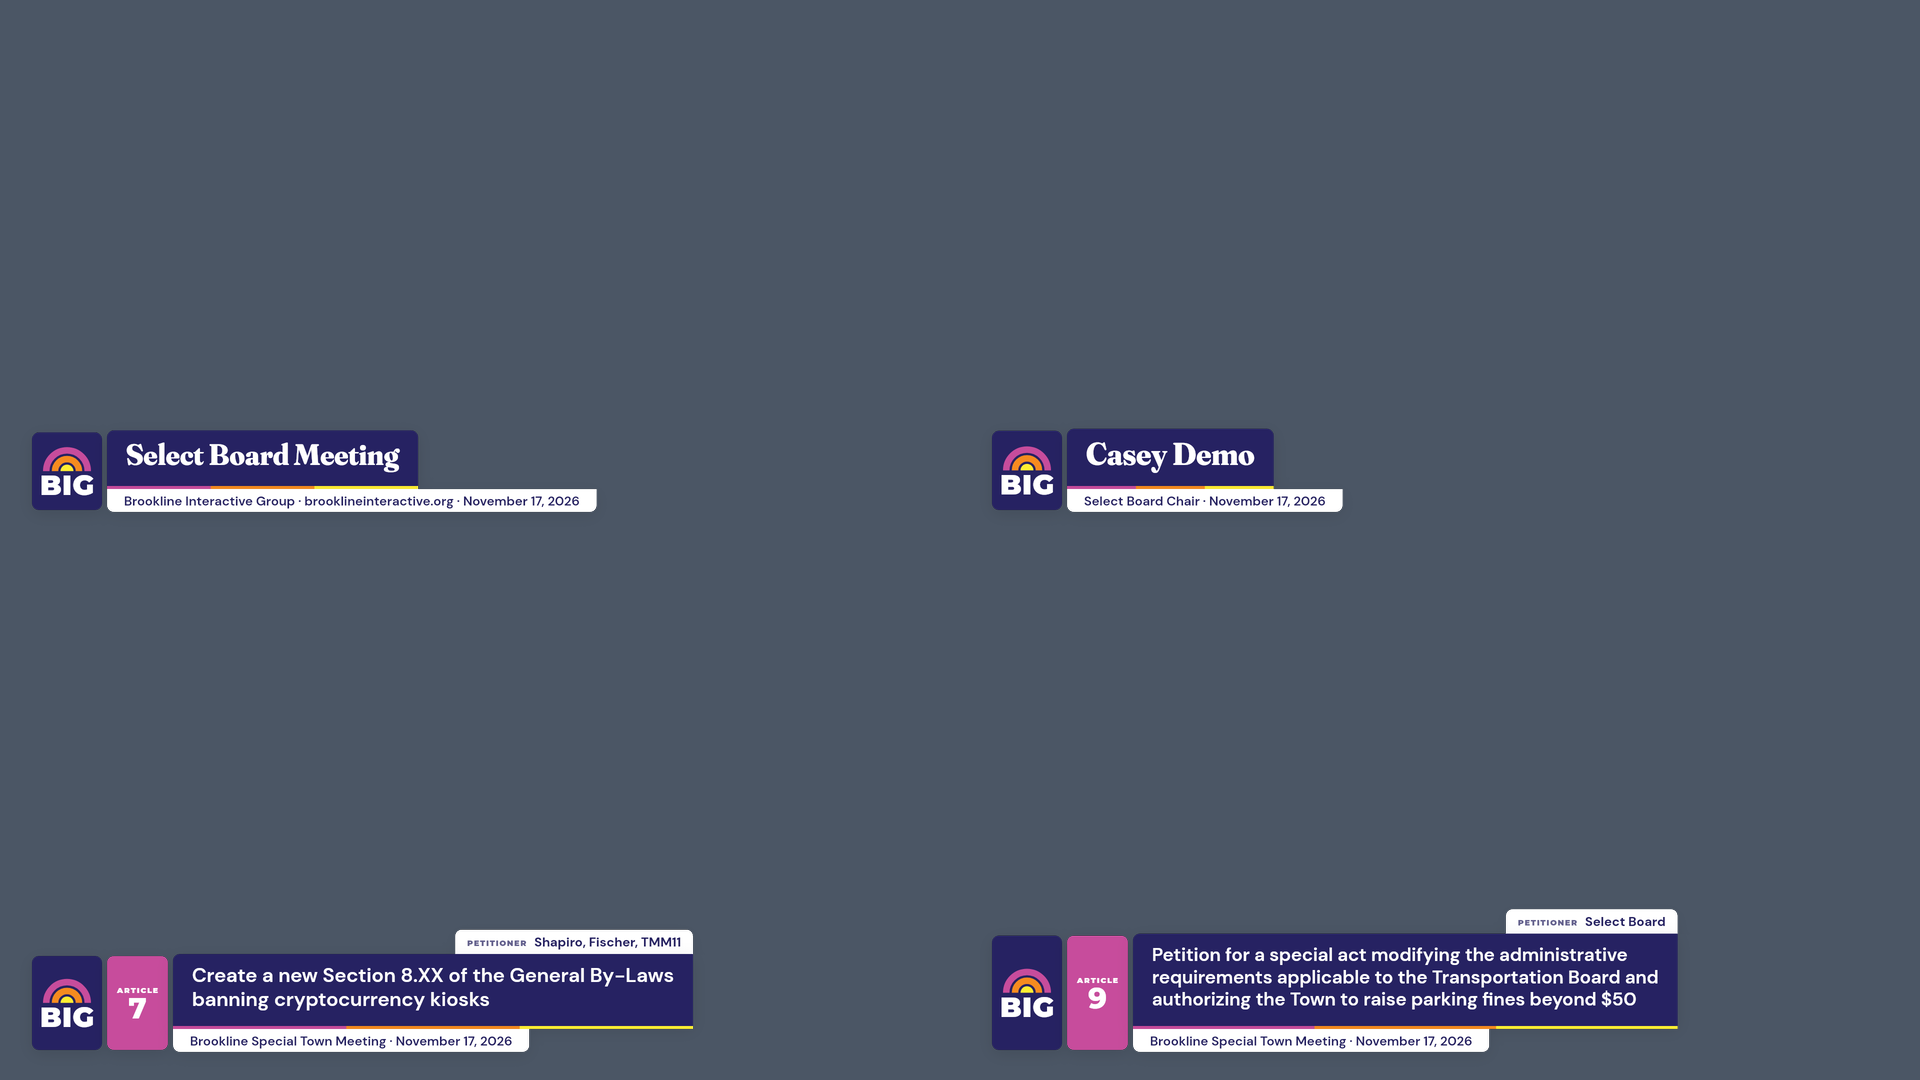
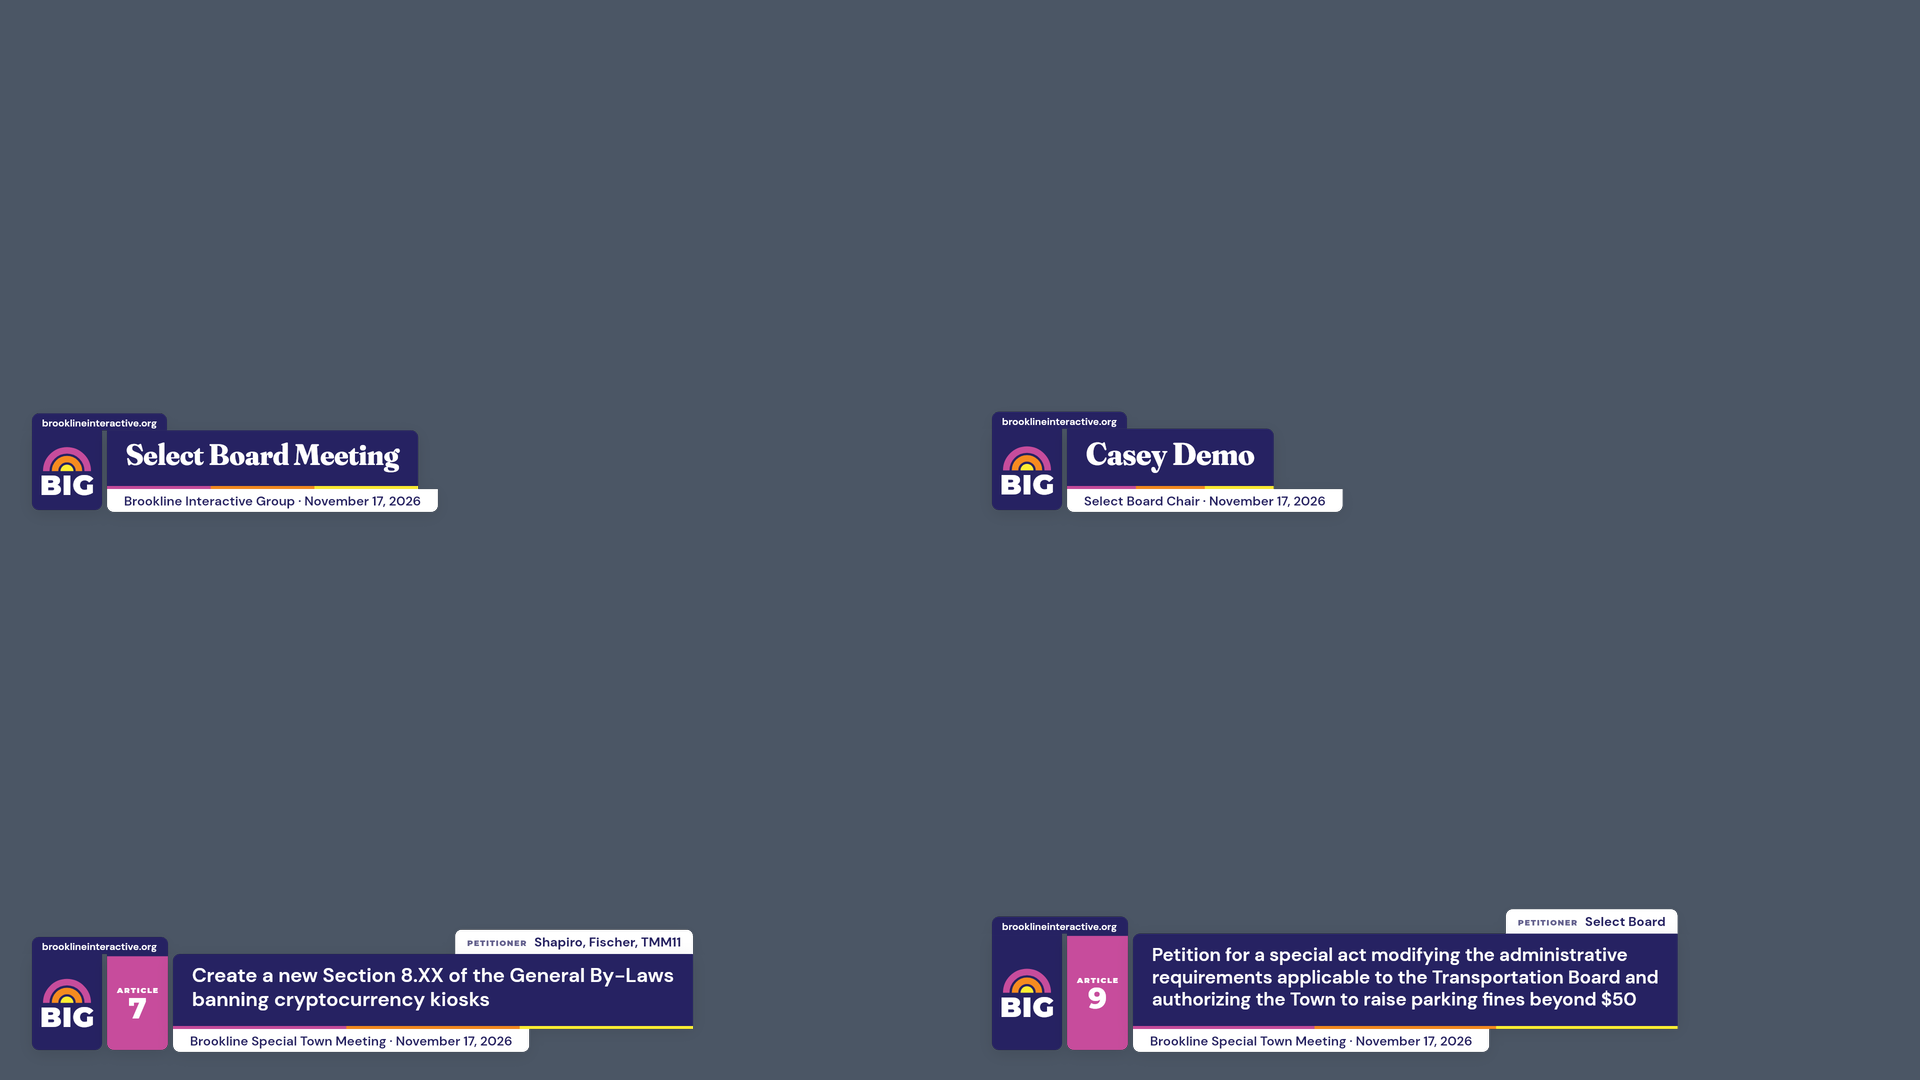
The station website rides on a tab at the top-left of every title
Every lower third now carries identity.url on a tab flush with the title's
left edge, in the tile's colour (the bar's when a look has no tile). It rises
out of the tile and badge after the bar extends and sinks back on the way out;
the corners under it straighten as it rises. On articles it runs to the badge's
right edge, and the bar widens so it never meets the petitioner tab.

A new look flag, urlTab (default on, Look step > Station identity), turns it
off; then the website goes back on the show ID's second line. A tag line that
repeats the website drops it while the tab is on.

Also: measure.mjs reports the tab, README and example images updated.

diff --git a/src/renderer/core.js b/src/renderer/core.js
@@ -8,10 +8,14 @@
 //
 // Design language ("tile build"): a rounded station tile carrying the mark,
 // an optional badge tile (article number), then a stack of bars — the name bar,
-// a thin brand stripe, and a light sub bar. The build-in animation assembles
-// the title piece by piece: the tile pops in, the arches draw on, the name bar
-// extends out of the tile, the name wipes in, the stripe draws, the sub bar
-// wipes out underneath and its text settles. The out reverses the build.
+// a thin brand stripe, and a light sub bar. Two tabs can rise out of the top
+// edge: the station's website at the left (in the tile's colour, so it reads
+// as a piece of the tile jutting up) and an article's petitioner at the
+// right (in the sub bar's colours). The build-in animation assembles the
+// title piece by piece: the tile pops in, the arches draw on, the name bar
+// extends out of the tile, the website tab rises, the name wipes in, the
+// stripe draws, the sub bar wipes out underneath and its text settles. The
+// out reverses the build.
 
 /** @typedef {{id?:string,type:'show'|'speaker'|'article',badge:string,primary:string,secondary:string,size?:'auto'|'standard'|'large',textScale?:number}} TitleItem */
 
@@ -234,7 +238,11 @@ function computeLayout(ctx, item, theme, opts) {
   const showTile = markStyle !== 'none' && (type === 'show' || FL.markOnAll !== false);
 
   /** @type {any} */
-  const plan = { u, W, H, r, type, large: false, tile: null, badge: null, bar: null, stripe: null, sub: null, tab: null };
+  const plan = { u, W, H, r, type, large: false, tile: null, badge: null, bar: null, stripe: null, sub: null, tab: null, url: null };
+
+  // The station's website, shown as a tab at the top-left of every title.
+  // When the tab is off, show IDs still carry it on their second line.
+  const urlText = FL.urlTab !== false ? String(id.url ?? '').replace(/\s+/g, ' ').trim() : '';
 
   // --- badge (article number) -------------------------------------------
   let badge = null;
@@ -319,7 +327,13 @@ function computeLayout(ctx, item, theme, opts) {
   // --- sub bar -----------------------------------------------------------
   let subText = String(item.secondary ?? '').trim();
   if (type === 'show' && !subText) {
-    subText = `${id.org ?? ''}${id.url ? ' · ' + id.url : ''}`.trim();
+    subText = `${id.org ?? ''}${id.url && !urlText ? ' · ' + id.url : ''}`.trim();
+  }
+  if (urlText && subText) {
+    // the website is on its own tab, so a tag line that repeats it drops it
+    const parts = subText.split(/\s+[\u00b7\u2022|]\s+/);
+    const keep = parts.filter((p) => p.trim().toLowerCase() !== urlText.toLowerCase());
+    if (keep.length < parts.length) subText = keep.join(' \u00b7 ');
   }
   // The project date (opts.dateText, on when opts.datePlace isn't 'off')
   // continues the line after a dot — "Brookline Special Town Meeting ·
@@ -404,6 +418,40 @@ function computeLayout(ctx, item, theme, opts) {
     tab = { text, kick: kickText, kickTracking, kickGap, padX: TAB_PAD, size: m.size, kickSize: m.kickSize, kickW: m.kickW, nameW: m.nameW, w: m.w, h: Math.round(m.size * 1.9) };
   }
 
+  // --- website tab -------------------------------------------------------
+  // A small line of lowercase type on a tab flush with the left edge of the
+  // title, jutting out of the top of whatever is leftmost (the tile, else
+  // the badge or the name bar). It may run past the tile but never past the
+  // title itself.
+  let url = null;
+  if (urlText) {
+    const URL_PAD = 20 * u;
+    const maxW = (barsX - tileX) + Math.max(barW, sub ? sub.w : 0, tab ? tab.w : 0);
+    const measureUrl = (size, text) => {
+      setFont(ctx, F.textWeight ?? 600, size, F.text);
+      const textW = measure(ctx, text);
+      return { size, textW, w: URL_PAD * 2 + textW };
+    };
+    let text = urlText;
+    let m = measureUrl(20 * u * kSub, text);
+    if (m.w > maxW) m = measureUrl(Math.max(13 * u, m.size * (maxW / m.w)), text);
+    if (m.w > maxW) { // still too wide at the floor: shorten it
+      const budget = maxW - URL_PAD * 2;
+      setFont(ctx, F.textWeight ?? 600, m.size, F.text);
+      while (text.length > 4 && measure(ctx, text + '\u2026') > budget) text = text.slice(0, -1).trimEnd();
+      text += '\u2026';
+      m = { size: m.size, textW: measure(ctx, text), w: maxW };
+    }
+    // A tab that would end over the badge runs to the badge's right edge
+    // instead, so the silhouette stays simple: a lid over the tile and badge.
+    if (badge) {
+      const end = tileX + m.w;
+      const badgeRight = badgeX + badge.w;
+      if (end > (showTile ? tileX + TILE : tileX) && end < badgeRight) m.w = badgeRight - tileX;
+    }
+    url = { text, padX: URL_PAD, size: m.size, w: m.w, h: Math.round(m.size * 1.9) };
+  }
+
   // --- vertical stack ----------------------------------------------------
   const stripeOn = FL.stripe !== false && (C.stripes?.length ?? 0) > 0;
   const stripeH = stripeOn ? STRIPE_H : 0;
@@ -414,8 +462,14 @@ function computeLayout(ctx, item, theme, opts) {
   const stackY = bottom - groupH + (groupH - stackH) / 2;
   const tileY = bottom - groupH + (groupH - tileH) / 2;
 
+  // --- bar width -----------------------------------------------------------
+  // The bar grows to carry the petitioner tab, and when the website tab is
+  // there too, far enough that the two share the top edge without touching.
+  let barWFinal = Math.max(barW, tab ? tab.w : 0);
+  if (tab && url) barWFinal = Math.max(barWFinal, Math.min(availW, (tileX + url.w + 12 * u) - barsX + tab.w));
+
   // --- horizontal centering (optional) ----------------------------------
-  const rightEdge = barsX + Math.max(barW, sub ? sub.w : 0, tab ? tab.w : 0);
+  const rightEdge = Math.max(barsX + Math.max(barWFinal, sub ? sub.w : 0), tileX + (url ? url.w : 0));
   let shift = 0;
   if (L.position === 'center') shift = (W - (rightEdge - tileX)) / 2 - tileX;
 
@@ -457,13 +511,18 @@ function computeLayout(ctx, item, theme, opts) {
   if (badge) {
     plan.badge = { ...badge, x: badgeX + shift, y: tileY, h: tileH };
   }
-  const barWFinal = Math.max(barW, tab ? tab.w : 0);
   plan.bar = {
     x: barsX + shift, y: stackY, w: barWFinal, h: barH,
     padX: PAD_X, padY, lines, size, lineH, family, weight,
   };
   if (tab) {
     plan.tab = { ...tab, x: barsX + shift + barWFinal - tab.w, y: stackY - tab.h };
+  }
+  if (url) {
+    // `top` is the top of what it rises out of (the tile and badge sit a
+    // little below the bar's top edge, `line`)
+    const top = (showTile || badge) ? tileY : stackY;
+    plan.url = { ...url, x: tileX + shift, y: top - url.h, top, line: stackY, onTile: showTile };
   }
   if (stripeOn) {
     plan.stripe = { x: barsX + shift, y: stackY + barH, w: barWFinal, h: stripeH, colors: C.stripes };
@@ -512,11 +571,12 @@ function buildStages(inP, outP) {
     sub: S(0.64, 0.9, easeOutQuint, 0.08, 0.36, easeInCubic),
     subText: S(0.8, 1.0, easeOutCubic, 0.0, 0.18, easeInQuad),
     tab: S(0.7, 0.96, easeOutQuint, 0.1, 0.4, easeInCubic),
+    url: S(0.46, 0.74, easeOutQuint, 0.2, 0.48, easeInCubic), // after the badge has settled from its pop
   };
 }
 
 const AT_REST = {
-  tile: 1, arcs: [1, 1, 1], label: 1, badge: 1, bar: 1, name: 1, stripe: [1, 1, 1, 1], sub: 1, subText: 1, tab: 1,
+  tile: 1, arcs: [1, 1, 1], label: 1, badge: 1, bar: 1, name: 1, stripe: [1, 1, 1, 1], sub: 1, subText: 1, tab: 1, url: 1,
 };
 
 // ------------------------------------------------------------------- paint ---
@@ -597,6 +657,13 @@ export function drawFrame(ctx, t, item, theme, opts) {
   const labelFont = F.label ?? F.text;
   const labelWeight = F.labelWeight ?? 700;
 
+  // The website tab sits on the top edge of the tile, badge and bar: the
+  // corners under it straighten as it rises (square once it is a corner's
+  // height out), and round again as it sinks back.
+  const urlRight = plan.url ? plan.url.x + plan.url.w : -Infinity;
+  const rUnder = plan.url ? r * (1 - Math.min(1, st.url * 3)) : r;
+  const underUrl = (x, w) => ({ tl: urlRight > x ? rUnder : r, tr: urlRight >= x + w ? rUnder : r });
+
   // --- station tile -------------------------------------------------------
   if (plan.tile && st.tile > 0) {
     const T = plan.tile;
@@ -607,7 +674,7 @@ export function drawFrame(ctx, t, item, theme, opts) {
     ctx.scale(Math.max(0.001, s), Math.max(0.001, s));
     ctx.translate(-cx, -cy);
     setShadow();
-    rrect(ctx, T.x, T.y, T.w, T.h, r);
+    rrectCorners(ctx, T.x, T.y, T.w, T.h, { ...underUrl(T.x, T.w), br: r, bl: r });
     ctx.fillStyle = C.tile;
     ctx.fill();
     clearShadow();
@@ -652,7 +719,7 @@ export function drawFrame(ctx, t, item, theme, opts) {
     ctx.scale(Math.max(0.001, s), Math.max(0.001, s));
     ctx.translate(-cx, -cy);
     setShadow();
-    rrect(ctx, B.x, B.y, B.w, B.h, r);
+    rrectCorners(ctx, B.x, B.y, B.w, B.h, { ...underUrl(B.x, B.w), br: r, bl: r });
     ctx.fillStyle = C.badgeBg;
     ctx.fill();
     clearShadow();
@@ -718,13 +785,43 @@ export function drawFrame(ctx, t, item, theme, opts) {
     ctx.save();
     setShadow();
     // bottom corners are square when a stripe or sub bar continues the stack;
-    // the top-right one is square under the petitioner tab
+    // the top ones under the petitioner tab (right) and the website tab (left)
     const squareBottom = !!(plan.stripe || plan.sub);
     const tr = plan.tab ? 0 : r;
-    rrectCorners(ctx, bar.x, bar.y, Math.max(1, barW), bar.h, { tl: r, tr, br: squareBottom ? 0 : r, bl: squareBottom ? 0 : r });
+    const tl = urlRight > bar.x ? rUnder : r;
+    rrectCorners(ctx, bar.x, bar.y, Math.max(1, barW), bar.h, { tl, tr, br: squareBottom ? 0 : r, bl: squareBottom ? 0 : r });
     ctx.fillStyle = C.bar;
     ctx.fill();
     clearShadow();
+    ctx.restore();
+  }
+
+  // --- website tab (rises out of the top-left) ----------------------------------
+  if (plan.url && st.url > 0) {
+    const U = plan.url;
+    const y = U.top - U.h * st.url;
+    ctx.save();
+    // Painted only above the bar's top edge, plus the thin strips between
+    // that edge and the tops of the tile and badge, which sit a little lower:
+    // the tab grows out of whatever is beneath it and nothing of it, or of
+    // its shadow, lands on the pieces below.
+    ctx.beginPath();
+    ctx.rect(U.x - 40 * u, y - 40 * u, U.w + 80 * u, U.line - (y - 40 * u));
+    for (const P of [plan.tile, plan.badge]) {
+      if (!P) continue;
+      const w = Math.min(P.w, urlRight - P.x);
+      if (w > 0 && P.y > U.line) ctx.rect(P.x, U.line - 0.5, w, P.y - U.line + 1);
+    }
+    ctx.clip();
+    setShadow(0.22);
+    rrectCorners(ctx, U.x, y, U.w, U.h + r, { tl: r, tr: r, br: 0, bl: 0 });
+    ctx.fillStyle = U.onTile ? C.tile : C.bar;
+    ctx.fill();
+    clearShadow();
+    ctx.globalAlpha *= Math.min(1, st.url * 1.4);
+    setFont(ctx, F.textWeight ?? 600, U.size, F.text);
+    ctx.fillStyle = U.onTile ? (C.label ?? C.text) : C.text;
+    ctx.fillText(U.text, U.x + U.padX, y + U.h / 2 + U.size * 0.36);
     ctx.restore();
   }
 

diff --git a/src/ui/LookStep.tsx b/src/ui/LookStep.tsx
@@ -219,10 +219,15 @@ export function LookRail(props: {
             <label className="fld"><span>Short mark <span className="val">on the tile</span></span>
               <input value={theme.identity.short} maxLength={6} onChange={(e) => patch((t) => { t.identity.short = e.target.value; })} />
             </label>
-            <label className="fld"><span>URL <span className="val">show ID line 2</span></span>
-              <input value={theme.identity.url} onChange={(e) => patch((t) => { t.identity.url = e.target.value; })} />
+            <label className="fld"><span>Website</span>
+              <input value={theme.identity.url} placeholder="yourstation.org" onChange={(e) => patch((t) => { t.identity.url = e.target.value; })} />
             </label>
           </div>
+          <label className="check">
+            <input type="checkbox" checked={theme.flags.urlTab !== false} onChange={(e) => patch((t) => { t.flags.urlTab = e.target.checked; })} />
+            Website on a tab at the top-left of every title
+          </label>
+          <span className="hint">The tab rises out of the tile in its colour. Off, the website goes on the show ID's second line instead.</span>
           <label className="fld"><span>Tile mark</span>
             <select value={theme.identity.markStyle} onChange={(e) => patch((t) => { t.identity.markStyle = e.target.value as MarkStyle; })}>
               <option value="arches">Rainbow arches + short mark</option>

diff --git a/src/renderer/themes.js b/src/renderer/themes.js
@@ -8,7 +8,7 @@
 // Margins sit inside action-safe rather than title-safe (64px / 56px at
 // 1080p): modern TVs don't overscan, and the room goes to bigger type.
 const LAYOUT = { position: 'left', marginX: 64, marginY: 56, maxWidth: 0.75, cornerRadius: 14, scale: 1 };
-const FLAGS = { stripe: true, shadow: true, uppercaseBadge: true, uppercaseTag: false, markOnAll: true, subBar: true, petitionerTab: true, petitionerKicker: true };
+const FLAGS = { stripe: true, shadow: true, uppercaseBadge: true, uppercaseTag: false, markOnAll: true, subBar: true, petitionerTab: true, petitionerKicker: true, urlTab: true };
 
 export const BUILT_IN_THEMES = [
   {

diff --git a/src/types.ts b/src/types.ts
@@ -82,6 +82,8 @@ export interface ThemeDef {
     subBar: boolean;
     petitionerTab: boolean;
     petitionerKicker: boolean;
+    /** the station website on a tab at the top-left of every title (off: show IDs carry it on line 2) */
+    urlTab: boolean;
   };
   animation: Animation;
   /** data-URL of an uploaded station logo (PNG with alpha recommended) */

diff --git a/README.md b/README.md
@@ -23,22 +23,22 @@ The desktop app bundles its own ffmpeg, so ProRes and WebM exports take seconds 
 
 ## What it makes
 
-Three kinds of lower thirds. Each one *builds* on screen — the station tile pops in, the arches draw on, the name bar extends out of the tile, the name wipes in, the brand stripe draws, and the role bar slides out underneath — then holds, then reverses out. They sit low and left (64 px in, 56 px up at 1080p — inside action-safe, not title-safe) and never run past 75% of the frame width, so the lower-right stays clear for closed captions.
+Three kinds of lower thirds. Each one *builds* on screen — the station tile pops in, the arches draw on, the name bar extends out of the tile, your **website** rises out of the top-left on a tab, the name wipes in, the brand stripe draws, and the role bar slides out underneath — then holds, then reverses out. They sit low and left (64 px in, 56 px up at 1080p — inside action-safe, not title-safe) and never run past 75% of the frame width, so the lower-right stays clear for closed captions.
 
 | Type | For | Example |
 |---|---|---|
 | **Speaker** | Who's talking — name + role | *Jordan Example · Town Moderator* |
-| **Show ID** | Opening a program — title + your station line | *Brookline Special Town Meeting 2026 · Brookline Interactive Group · brooklineinteractive.org* |
+| **Show ID** | Opening a program — title + your station line | *Brookline Special Town Meeting 2026 · Brookline Interactive Group* |
 | **Article** | Dense info cards — number badge + full article title + meeting tag, with the **petitioner** on a tab above the title's right end. Long titles switch to a **Large** layout on their own: bigger type on up to four lines, never wider than the look's **Max width** (75% of the frame by default) | *Article 7 · Create a new Section 8.XX of the General By-Laws banning cryptocurrency kiosks · Petitioner: Shapiro, Fischer, TMM11* |
 
-Any title can also carry the **date**, typed once for the whole project: it continues the tag or role line after a dot — *Brookline Special Town Meeting · November 17, 2026* — replacing a month, year or date the line already ends with. Leave it blank and the line ends in an empty slot that a text source in OBS can fill with the live date (see [A live date from OBS](#a-live-date-from-obs)). Press <kbd>Enter</kbd> while typing a title to break a line where you want it.
+Every title carries the station's **website** on a small tab jutting out of the top-left corner, in the tile's own colour (set it under Station identity in the Look step, or turn the tab off there and the website goes on the show ID's second line instead). Any title can also carry the **date**, typed once for the whole project: it continues the tag or role line after a dot — *Brookline Special Town Meeting · November 17, 2026* — replacing a month, year or date the line already ends with. Leave it blank and the line ends in an empty slot that a text source in OBS can fill with the live date (see [A live date from OBS](#a-live-date-from-obs)). Press <kbd>Enter</kbd> while typing a title to break a line where you want it.
 
 ![Examples](docs/examples/montage.png)
 
 ## Three steps
 
 1. **Titles** — add speakers, show IDs and articles one at a time, or **Import spreadsheet** (CSV, Excel, or paste straight from Google Sheets). Click any title to preview and edit it; <kbd>Enter</kbd> starts a new line. Articles have a **Petitioner** field (the tab above the title). Each title has a **Size on screen** (Auto / Standard / Large) and a text-size nudge; Auto goes Large whenever a title would otherwise come out small. **Date on every title** lives at the top of the list.
-2. **Look** — the gallery sits under the preview; every adjustment is in the left column so the video stays in view while you drag: **Placement & size** (max width, left and bottom margins, scale, corners, position), **Type** (fonts, weights and sizes for names, article titles, sub bar and tabs, tile mark, badge), **Colors**, **Station identity** (name, mark, logo) and **Motion & extras**. The first change makes the look your own copy; the built-in stays as it is.
+2. **Look** — the gallery sits under the preview; every adjustment is in the left column so the video stays in view while you drag: **Placement & size** (max width, left and bottom margins, scale, corners, position), **Type** (fonts, weights and sizes for names, article titles, sub bar and tabs, tile mark, badge), **Colors**, **Station identity** (name, mark, logo, website tab) and **Motion & extras**. The first change makes the look your own copy; the built-in stays as it is.
 3. **Export** — choose a format, timing and a folder, tick the titles you want, and **Export**. Press <kbd>Space</kbd> anywhere to play the preview.
 
 Projects auto-save in the app; **Project → Save project file** writes a portable `.titler.json` you can archive or move between machines.
@@ -96,7 +96,7 @@ Prefer a Text source? [K_STYER's Dynamic Time and Date Display](https://obsproje
 
 Five built-in looks: **BIG — Brookline Interactive** (navy tiles, the rainbow arches over a big Montserrat **BIG**, tri-color stripe, Fraunces serif names), **Civic Green** (the [Community AI Project](https://github.com/amateurmenace/community-ai-project) palette — forest green, lime, cream), neutral **Broadcast Slate**, civic **Town Hall**, and **Minimal Light**.
 
-To rebrand for your station: in **Look**, start changing things — the first edit turns the built-in into your own copy, saved with the project. Set your station name, short mark and URL, upload a **logo PNG** for the tile, pick fonts and weights (Fraunces, DM Sans, Inter, JetBrains Mono and Montserrat are bundled; add your own `.ttf`), set the **type sizes** (name / show title, article title, sub bar and tabs, tile mark, badge — each a percentage of the look's default), move the titles with the **margin** and **max width** sliders, set every color, and choose the motion. **Export** the look as a `.theme.json` to share with your team — or open a PR to add your station's look as a built-in.
+To rebrand for your station: in **Look**, start changing things — the first edit turns the built-in into your own copy, saved with the project. Set your station name, short mark and website (it rides on the tab at the top-left of every title), upload a **logo PNG** for the tile, pick fonts and weights (Fraunces, DM Sans, Inter, JetBrains Mono and Montserrat are bundled; add your own `.ttf`), set the **type sizes** (name / show title, article title, sub bar and tabs, tile mark, badge — each a percentage of the look's default), move the titles with the **margin** and **max width** sliders, set every color, and choose the motion. **Export** the look as a `.theme.json` to share with your team — or open a PR to add your station's look as a built-in.
 
 ## CLI batch rendering
 
